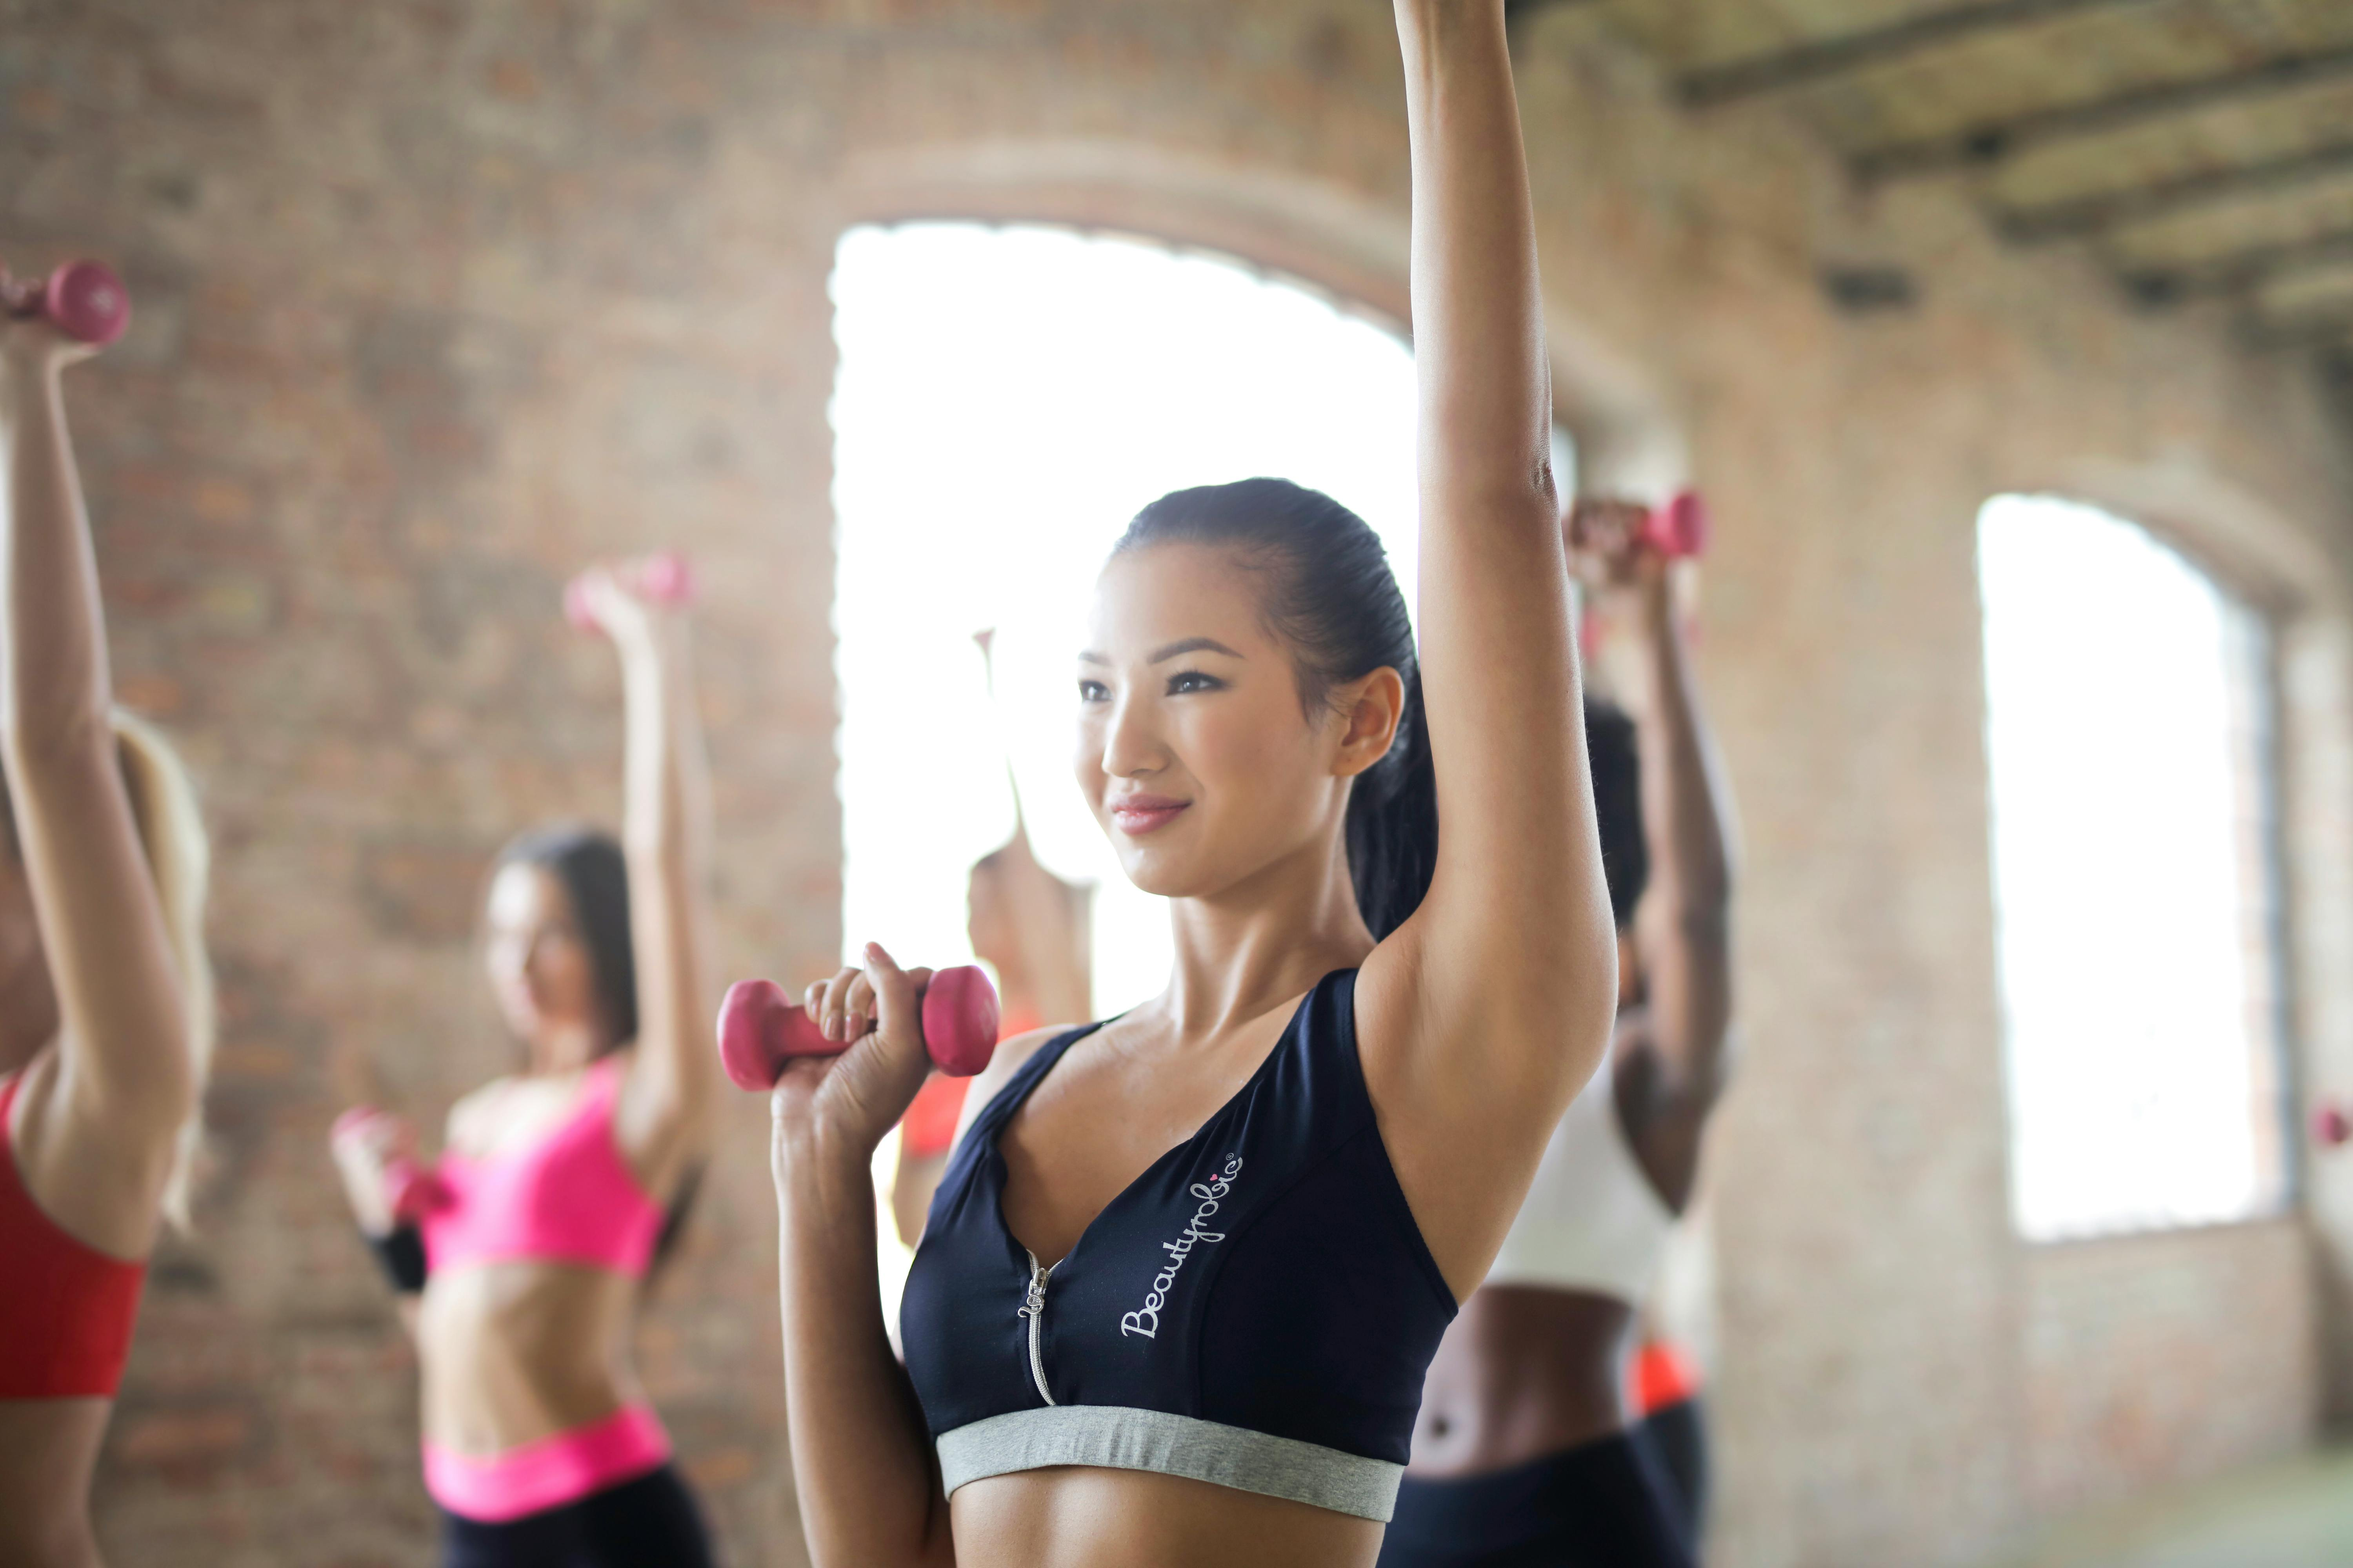
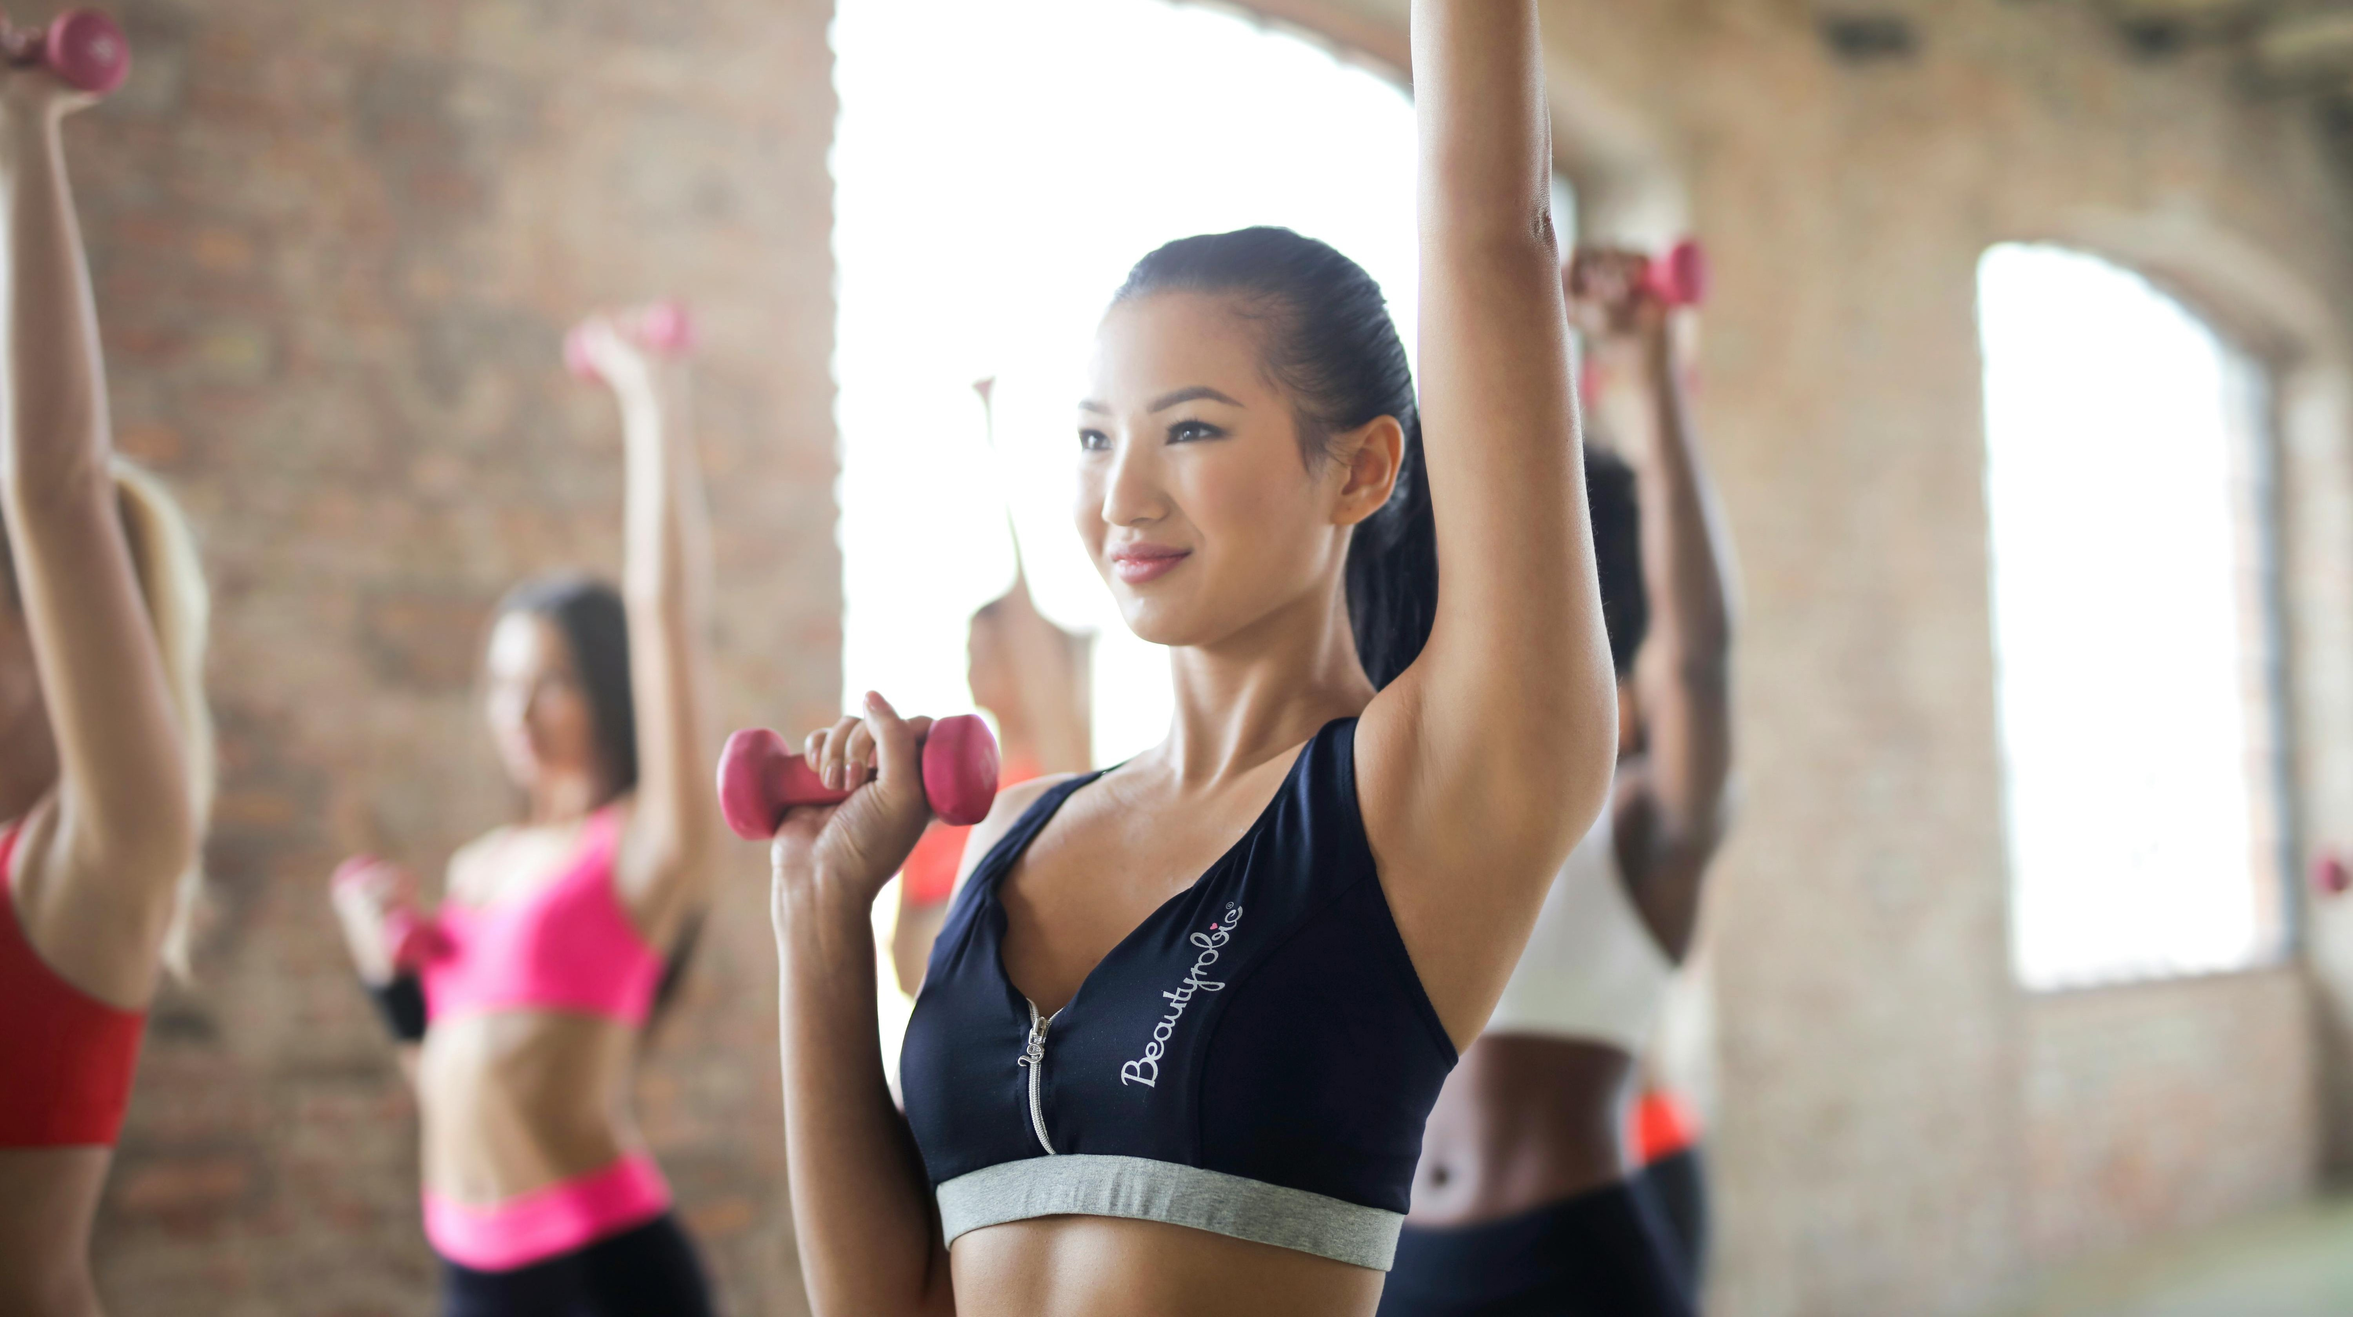
resizing images

diff --git a/index.html b/index.html
@@ -107,7 +107,7 @@
             <div class="container">
                 <div class="row ">
                     <!-- Box 1 class times -->
-                    <div class="col-12 col-md-6 nop">
+                    <div class="col-12 nop">
                         <div class="cat-box">
                             <div class="cat-box-top">
                                 <img src="./assets/images/fitness-class.jpg" class="nop" alt="fitness class image">
@@ -500,7 +500,7 @@
                     </div>
 
                     <!-- Box 2 about our Instructors -->
-                    <div class="col-12 col-md-6 nop">
+                    <div class="col-12 nop">
                     <div class="cat-box">
                     <div class="cat-bot-top">
                     <img src="./assets/images/Instructor.jpg" class="nop" alt="instructor image">
@@ -521,10 +521,10 @@
                     </div>
 
                     <!-- Box 3  Book a fitness test -->
-                    <div class="col-12 col-md-6 nop">
+                    <div class="col-12  nop">
                     <div class="cat-box">
                     <div class="cat-bot-top">
-                    <img src="./assets/images/test.jpg" class="nop" alt="fitness test">
+                    <img src="./assets/images/fit-test.jpg" class="nop" alt="fitness test">
                     </div>
                     <div class="cat-box-mid jcc">
                     <a data-bs-toggle="collapse" data-bs-target="#fitnessTest" >
@@ -542,10 +542,15 @@
                     </div>
 
                     <!-- Box 4  other activities  -->
-                    <div class="col-12 col-md-6 nop">
+                    <div class="col-12 nop">
                     <div class="cat-box">
                     <div class="cat-bot-top">
-                    <img src="./assets/images/coach.jpg" class="nop" alt="Rock climbing">
+                    <div class="d-md-block d-lg-none">
+                        <img src="./assets/images/coach.jpg" class="nop" alt="Rock climbing">
+                    </div>
+                    <div class="d-none d-lg-block">
+                        <img src="./assets/images/coach-big.jpg" class="nop" alt="Rock climbing">
+                    </div>
                     </div>
                     <div class="cat-box-mid jcc">
                     <a data-bs-toggle="collapse" data-bs-target="#other" >
@@ -637,86 +642,9 @@
                                    </div>
                                 </div>
                             </div> 
-                                
-                            
-
-
-                            
-
-                               
-                                
-                                
-                            
-                            
-                           
                            
                         </div>
-
-
-
-
-
-
-                        <!-- <div class="row">
-                            <div class="col-12 col-md-3 jcc">
-                                <div class="activities-image ">
-                                    <img src="./assets/images/activities/rock.jpg" alt="rock climbing">
-                                </div>
-                                
-                            </div>
-                            <div class="col-12 col-md-9">
-                                Lorem ipsum, dolor sit amet consectetur adipisicing elit. Alias provident autem vero numquam! Ratione.
-                            </div>
-                        </div> -->
-                    
-                   </div>
-                
-
-
-
-
-                    <!-- <table>
-                        <tr>
-                            <th>Event Date </th>
-                            <th class="bold">Activity</th>
-                            <th  class="bold">Location</th>
-                            
-                        </tr>
-                        <tr>
-                            <th>7th July 25</th>
-                            <th>Rock Climbing</th>
-                            <th>Doncaster</th>
-                            
-                        </tr>
-                        <tr>
-                            <th>19th July 25</th>
-                            <th>Cliff Walk</th>
-                            <th>Peak District</th>
-                            
-                        </tr>
-
-                        <tr>
-                            <th>23rd July 25</th>
-                            <th>Lincoln 10k</th>
-                            <th>Lincoln</th>
-                            
-                        </tr>
-                        <tr>
-                            <th>2nd August 25</th>
-                            <th>Lake Swim</th>
-                            <th>Newcastle</th>
-                            
-                        </tr>
-                        <tr>
-                            <th>12th August 25</th>
-                            <th>Kayak Day</th>
-                            <th>Sheffield</th>
-                            
-                        </tr>
-
-                        
-                        </table> -->
-                    
+                   </div>                
                     </div>
                     </div>
                     </div>
@@ -765,7 +693,7 @@
 
             <!-- The Modal for joining -->
             <div class="modal fade" id="join-up-modal">
-                <div class="modal-dialog modal-dialog-centered modal-sm modal-md">
+                <div class="modal-dialog modal-dialog-centered modal-md">
                     <div class="modal-content">
                         <form id="join-form" method="get" action="index.html" >
                         <!-- Modal Header -->

diff --git a/assets/css/style.css b/assets/css/style.css
@@ -372,9 +372,9 @@ https://www.canva.com/colors/color-wheel/ */
     }
 
     #categories img {
-    height: 240px; 
+    width: 100%;
+    height: auto;
     }
-
     #categories table th {
     font-size: 14px;
     }
@@ -406,6 +406,11 @@ https://www.canva.com/colors/color-wheel/ */
     #categories table th {
     font-size: 14px;
     }
+
+    #categories img {
+    width: 100%;
+    height: auto;
+    }
     
 }
 
@@ -417,7 +422,10 @@ https://www.canva.com/colors/color-wheel/ */
     font-size: 24px;
     }
 
-
+    #categories img {
+    width: 100%;
+    height: auto;
+    }
 
 
 }
@@ -426,7 +434,7 @@ https://www.canva.com/colors/color-wheel/ */
 @media screen and (min-width: 1200px) {
     
     #header {
-    height: 420px;
+    height: auto;
     background-image: linear-gradient(to right, rgba(1, 151, 254, 0.75), rgba(254, 104, 1, 0.5)), url("../images/weights-bar.jpg");
     }
 
@@ -442,7 +450,7 @@ https://www.canva.com/colors/color-wheel/ */
 
     #categories img {
     width: 100%;
-    height: 300px;
+    height: auto;
     }
 
     
